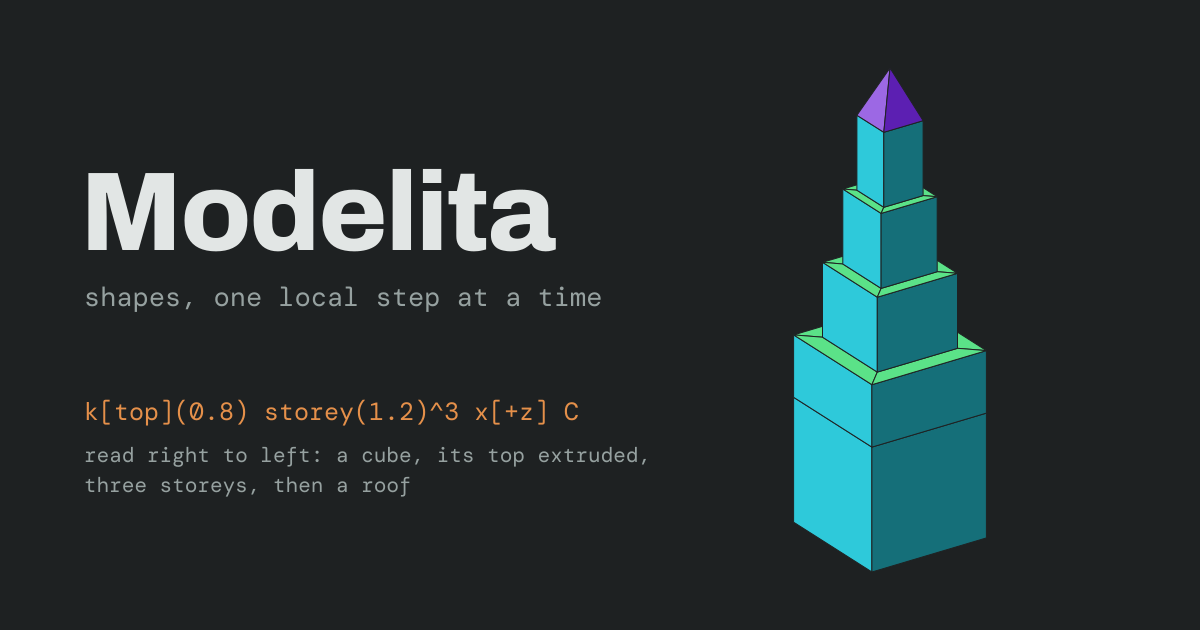
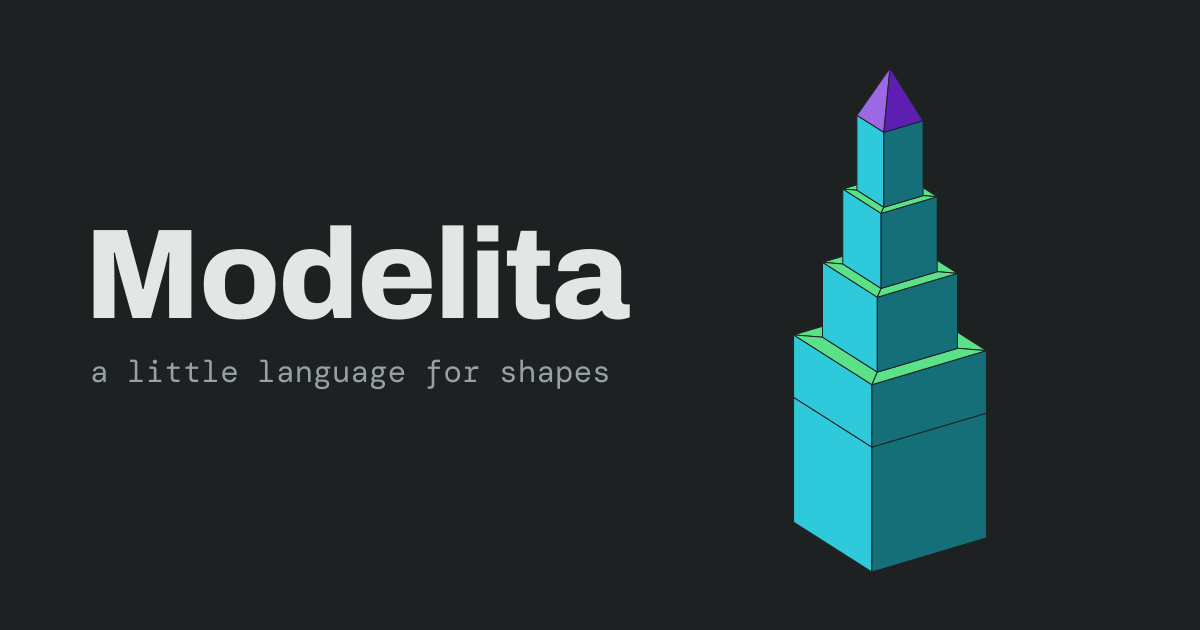
Motto: "a little language for shapes"; a simpler link preview
The motto replaces "one local step at a time" in the page header, the
page and link-preview descriptions, and the README. The preview image
keeps only the name, the motto and the tower; its source is now
web/og.svg.

diff --git a/web/site/index.html b/web/site/index.html
@@ -4,12 +4,12 @@
 <meta charset="utf-8">
 <meta name="viewport" content="width=device-width, initial-scale=1, viewport-fit=cover">
 <title>Modelita Playground</title>
-<meta name="description" content="Build polyhedral shapes from short words: a cube, its top extruded, a tent on top. Modelita's playground runs the language in your browser.">
+<meta name="description" content="A little language for shapes. Write a word, see the polyhedron it builds, right in your browser.">
 <meta name="theme-color" content="#1e2122">
 <link rel="icon" href="favicon.svg" type="image/svg+xml">
 <meta property="og:type" content="website">
 <meta property="og:title" content="Modelita Playground">
-<meta property="og:description" content="Build polyhedral shapes from short words, one local step at a time. The whole program travels in the link.">
+<meta property="og:description" content="A little language for shapes.">
 <meta property="og:url" content="https://modelita.vercel.app/">
 <meta property="og:image" content="https://modelita.vercel.app/og.png">
 <meta property="og:image:width" content="1200">
@@ -24,7 +24,7 @@
 <header>
   <div class="brand">
     <h1>Modelita</h1>
-    <span class="tag">shapes, one local step at a time</span>
+    <span class="tag">a little language for shapes</span>
   </div>
   <span class="engine" id="engine" data-state="loading">loading engine</span>
   <div class="actions">

diff --git a/web/README.md b/web/README.md
@@ -37,6 +37,7 @@ root serves `web/site/` with no build step.
 | `site/lang.js` | what the page knows about Modelita text: line kinds, tokens, steps, links |
 | `site/modelita.js`, `modelita.wasm` | the engine: `modelita_web.c` + `../c/modelita.h` built with Emscripten |
 | `site/og.png`, `favicon.svg` | the link preview and the tab icon |
+| `og.svg` | the link preview's source: export it to `site/og.png` with `inkscape og.svg --export-type=png --export-filename=site/og.png` (needs the Archivo and DM Mono fonts installed) |
 | `modelita_web.c` | runs a program and returns the results as JSON |
 | `dump.mjs` | the conformance dump from the engine: `python3 tests/run.py -- node web/dump.mjs` |
 | `check-page.mjs` | `lang.js` against the engine: every example, every step, link round trips |

diff --git a/README.md b/README.md
@@ -1,6 +1,6 @@
 # Modelita
 
-A small language for building polyhedral shapes, one local step at a time.
+A little language for shapes.
 
 **Try it:** [modelita.vercel.app](https://modelita.vercel.app), the playground,
 running the C implementation as WebAssembly.
